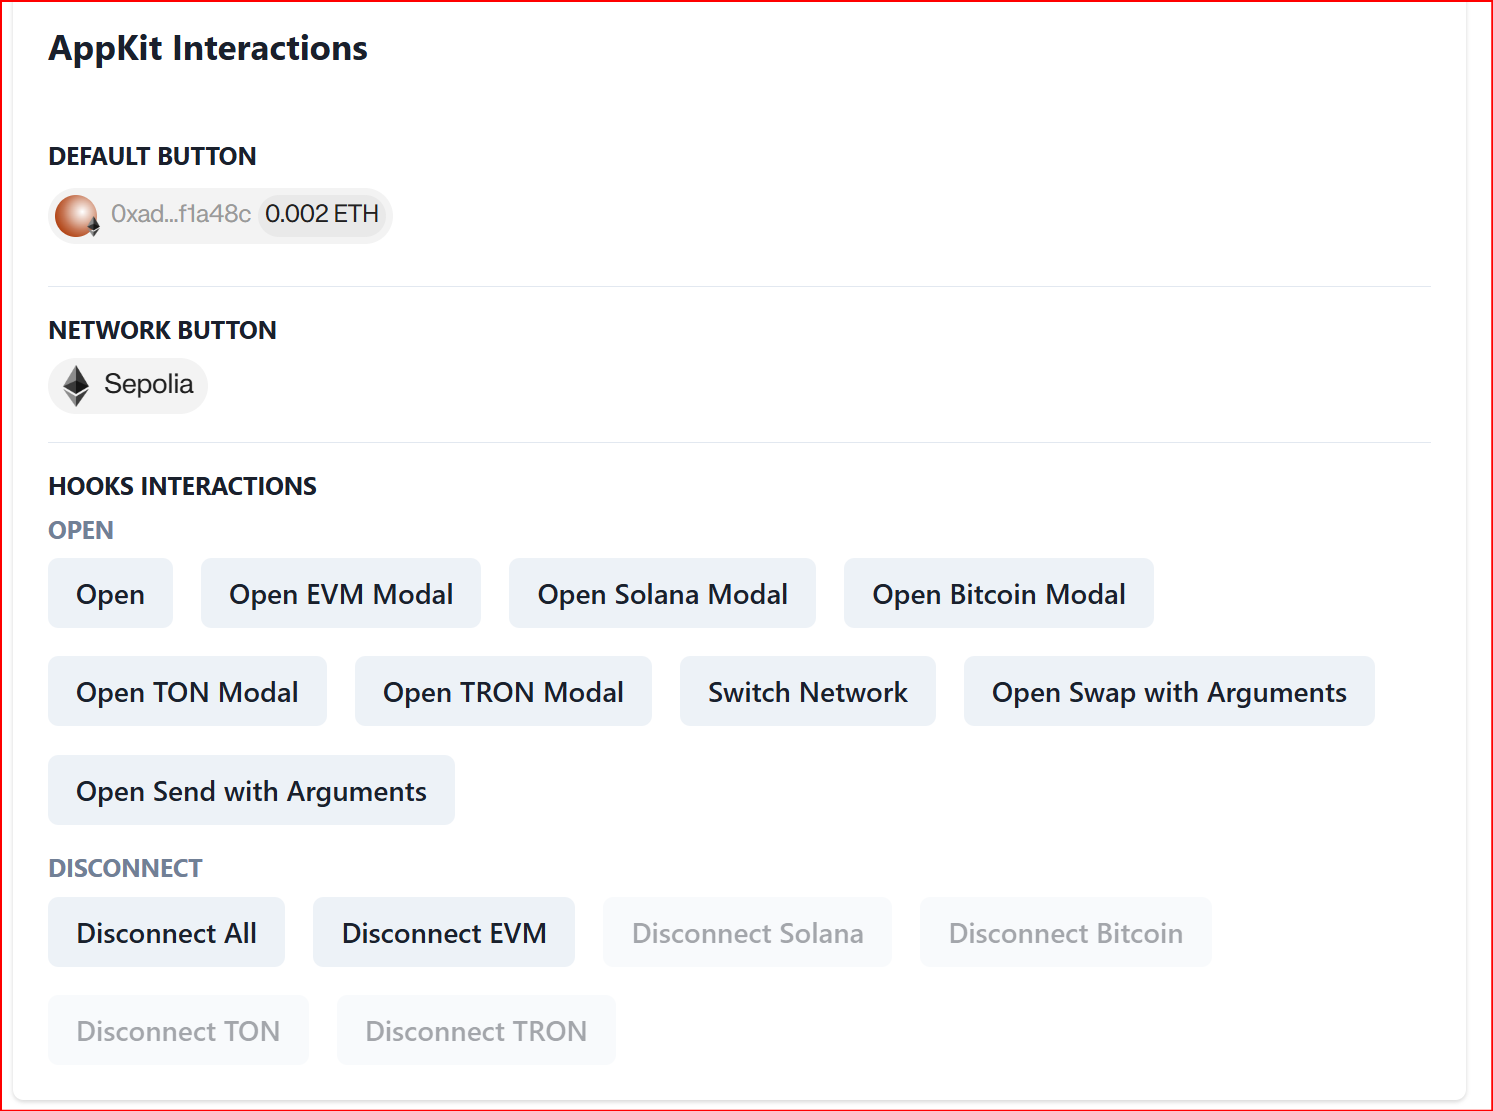
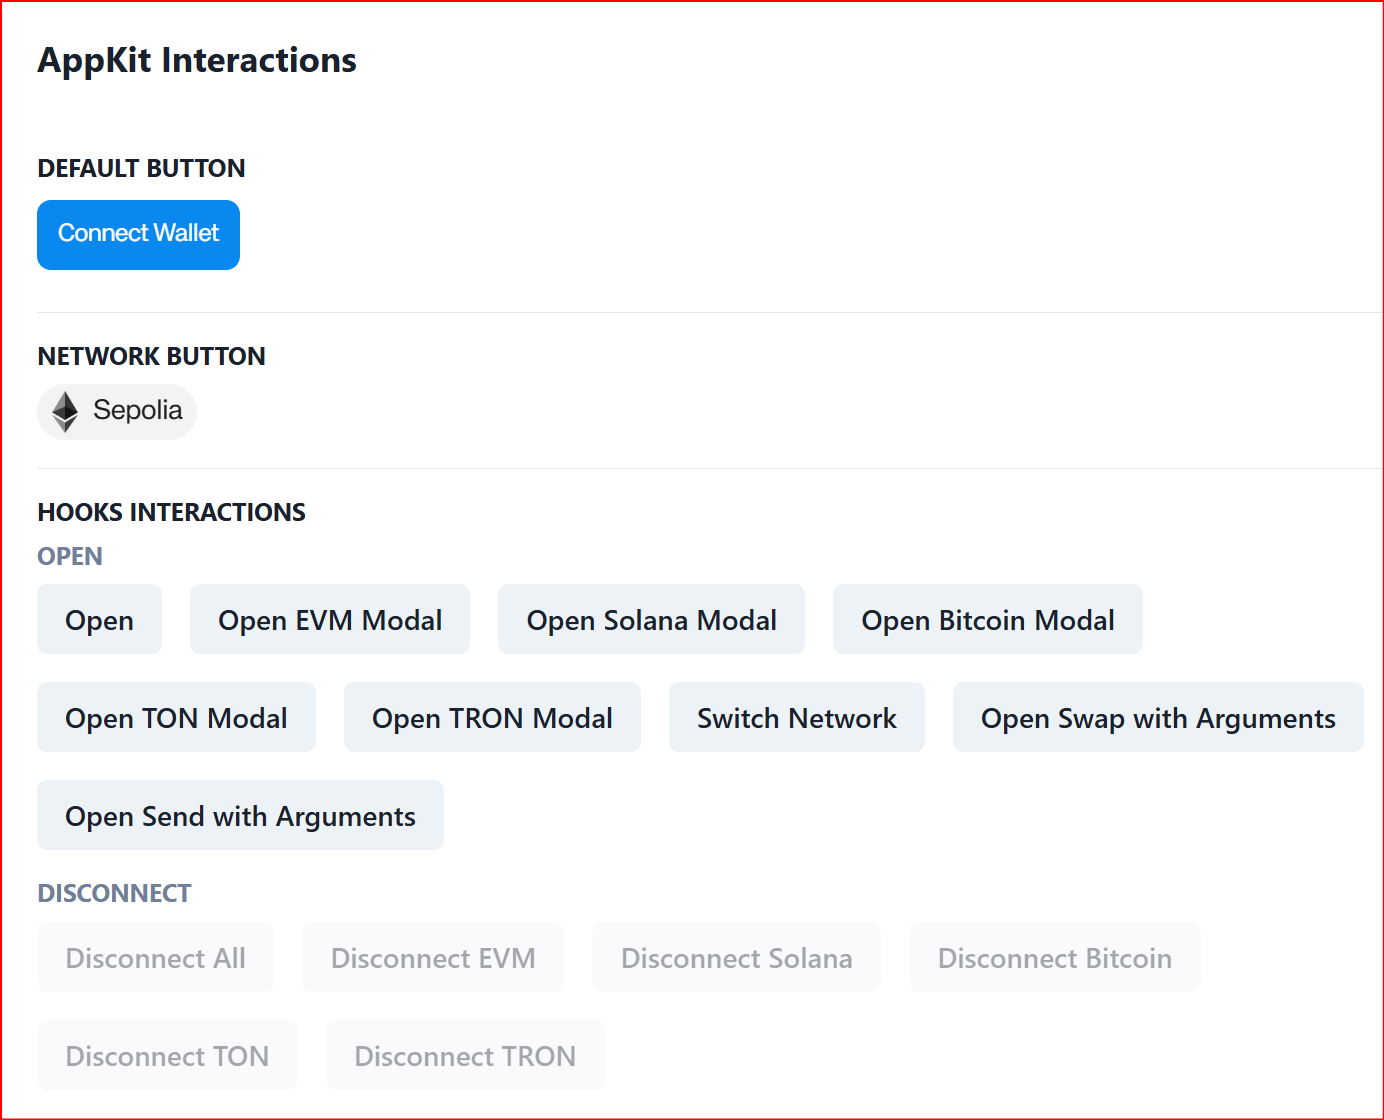
update M5

diff --git a/developers/Milestones/M5/local-demo-with-docker.md b/developers/Milestones/M5/local-demo-with-docker.md
@@ -198,7 +198,7 @@ In the wallet app:
 <div style={{ display: "flex", gap: "20px", justifyContent: "center" }}>
   <figure style={{ textAlign: "center" }}>
     <img src="/img/connect_URI.png" alt="connect URI" width="200"/>
-    <figcaption>Click on top of Connect and paste URI</figcaption>
+    <figcaption>Click on top of Connect</figcaption>
   </figure>
   <figure style={{ textAlign: "center" }}>
     <img src="/img/connect_uri_ex.png" alt="URI example" width="200"/>
@@ -356,7 +356,7 @@ This Ethereum flow exposed by the Reown lab is the basic one that allows testing
 
 <div style={{ display: "flex", gap: "20px", justifyContent: "center" }}>
   <figure style={{ textAlign: "center" }}>
-    <img src="/img/open_evm_modal.png" alt="sign send" width="400" height ="350"/>
+    <img src="/img/open_evm_modal.png" alt="sign send" width="400"/>
     <figcaption>Open EVM Modal</figcaption>
   </figure>
   <figure style={{ textAlign: "center" }}>
@@ -435,7 +435,7 @@ Then copy past your ETH wallet address and click on `Preview Send` then `Send` t
 
 Feel free to try other Dapps; but not all of these have been tested, and some require capabilities that are not part of Interstellar SDK supported use cases.
 
-In addition even on working Dapps, not all buttons work eg. `extractSolTransaction` works only with `Sign and Send Transaction` (Dapp) but NOT with `Sign and Send Transaction` (Wallet).
+In addition even on working Dapps, not all buttons work eg. `Sign and Send Transaction` (Dapp) works but some NOT with `Sign and Send Transaction` (Wallet)".
 
 If you want to explore other reown Dapps:
 [Go to the main reown Dapp page](https://lab.reown.com)
